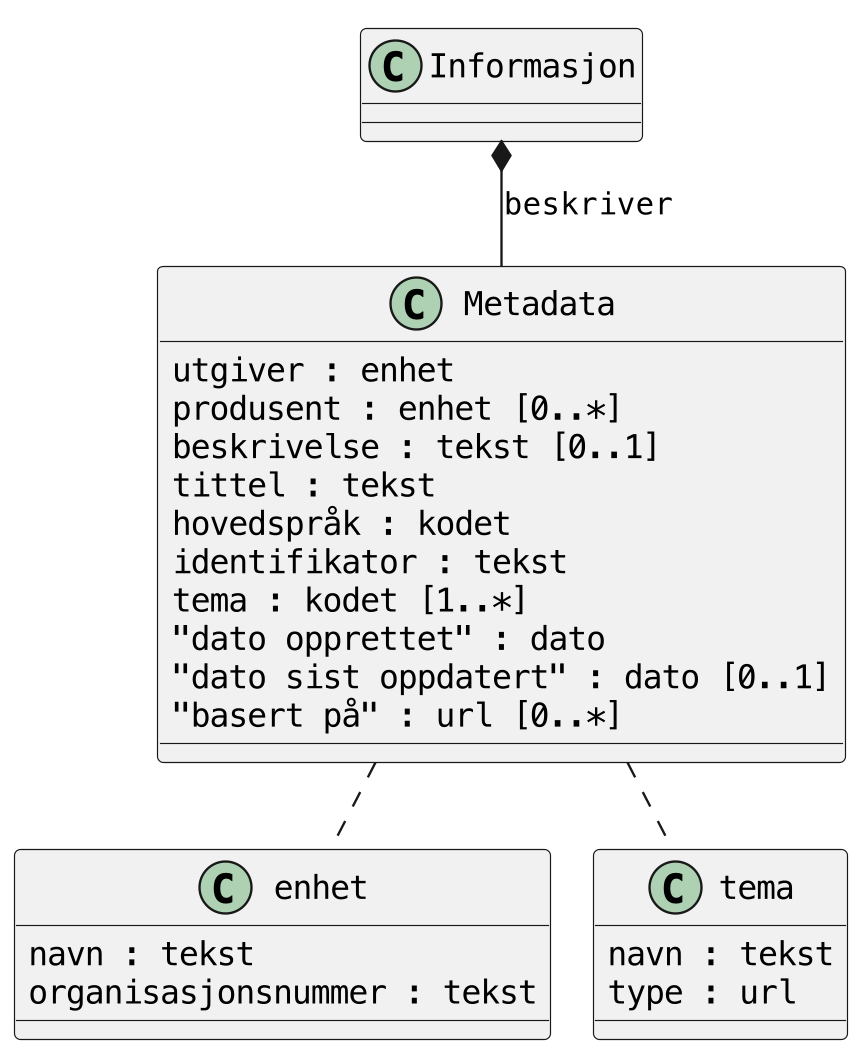
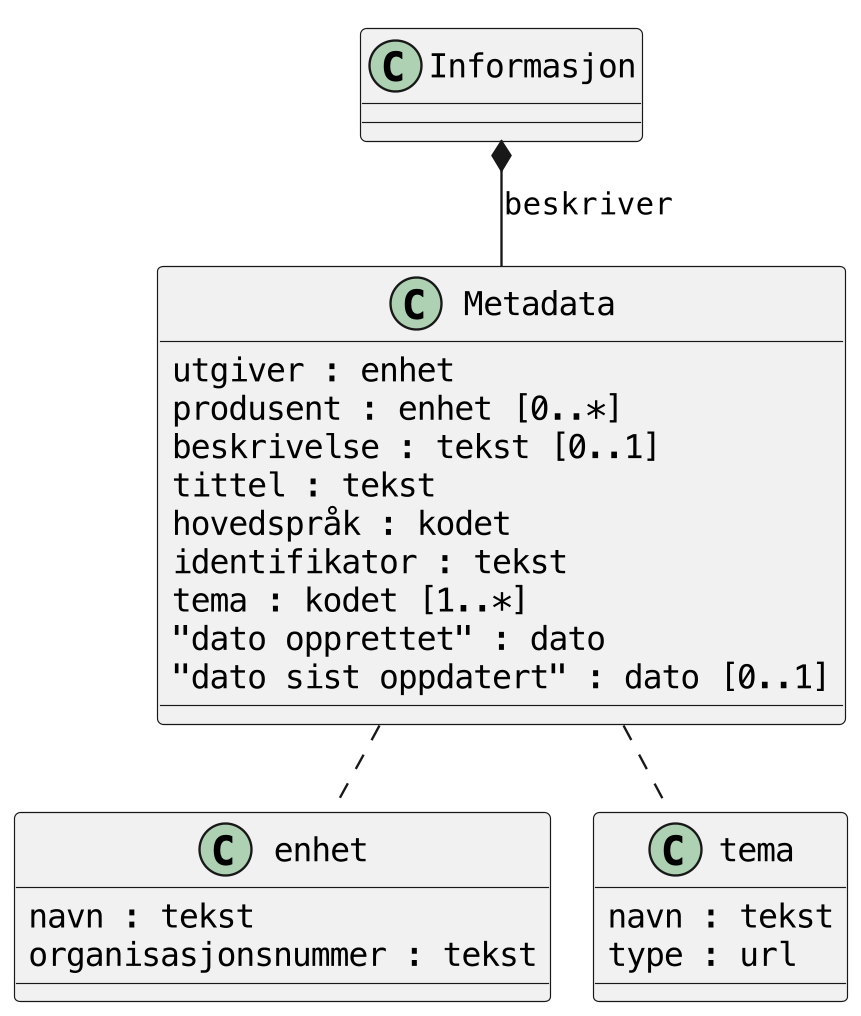
Fjernet "basert på" + tekstlig opprydding

diff --git a/README.md b/README.md
@@ -94,7 +94,6 @@ Dette er et subsett baseret på funn i HIDA og ETI våren 2023. Minimumskrav er 
 | **Tittel** | tekst | Obligatorisk | Artikkelens tittel |
 | **Dato opprettet** | dato | Frivillig | Dato for publisering |
 | **Dato sist oppdatert** | dato | Frivillig | Dato for oppdatering |
-| **Basert på** | URL | Frivillig, flere er mulig | Peker til original(er) hvis dette er et derivat, for eksempel ved automatisk sammenstilling med kunstig intelligens. |
 
 ### Kodeverk/terminologi
 
@@ -129,15 +128,15 @@ Listen er ikke uttømmende.
 
 ### Syntaks/format
 
-Det anbefales å uttrykke metadata på ett eller flere format som kan benyttes med CMS. Det finnes ingen dominerende standard. Mye brukte formater er JSON Linked Data (JSON-LD), RDFa og [Micodata]. Felles for disse er at de benytter vokabular beskrevet på Schema.org, et dugnadsdrevet arbeid med mål om å lage og forvalte [skjemaer] for strukturerte data på internett.
+Det anbefales å uttrykke metadata på ett eller flere format som kan benyttes med CMS. Det finnes ingen dominerende standard. Mye brukte formater er JSON Linked Data (JSON-LD), RDFa og Microdata. 
+
+Under vises det bruk med felt og datatyper basert på henholdsbis [CDV-NO](https://informasjonsforvaltning.github.io/cdvno/) og [Schema.org](https://schema.org/).
 
 Det finnes andre syntaks/format også, som f.eks. [OpenGraph](https://ogp.me). I prinsippet bør man forvalte og vedlikeholde en guide for mapping mot de til enhver mest aktuelle formatene.
 
-#### Kobling til DCAT-AP-NO, schema.org, med mer
+#### Kobling mellom informasjonsmodell og CDV-NO og Schema.org
 
-Schema.org-attributtene er hovedsaklig hentet fra [CreativeWork](https://schema.org/CreativeWork).
-
-| **Metadata-felt** | **DCAT-AP-NO** | *datatype* | **Schema.org** | *datatype* |
+| **Metadata-felt** | **CDV-NO** | *datatype* | **Schema.org** | *datatype* |
 | --- | --- | --- | --- | -- |
 | **Utgiver** | dct:publisher | org:Organization | publisher | Organization (legalName, identifier) |
 | **Produsent** | dct:creator | org:Organization | author | Organization (legalName, identifier) |
@@ -148,7 +147,6 @@ Schema.org-attributtene er hovedsaklig hentet fra [CreativeWork](https://schema.
 | **Tittel** | dct:title | rdf:langString | headline | Text |
 | **Dato opprettet** | dct:issued | xsd:date | datePublished | Date / DateTime |
 | **Dato sist oppdatert** | dct:modified | xsd:date | dateModified | Date / DateTime |
-| **Basert på** | | xsd:anyURI **?** | isBasedOn | URL |
 
 #### Namespace
 
@@ -255,5 +253,3 @@ Namespacet *og* betyr [Open Graph](https://ogp.me/).
 [^5]: [Referansekatalogen for IT-standardar - Digdir](https://www.digdir.no/standarder/referansekatalogen-it-standardar/1480)
 
 [^6]: [Los - felles vokabular for klassifisering av offentlige tjenester og ressurser - Digdir](https://www.digdir.no/informasjonsforvaltning/los-felles-vokabular-klassifisering-av-offentlige-tjenester-og-ressurser/2434)
-
-[^7]: [Information on BCP 47 » RFC Editor (rfc-editor.org)](https://www.rfc-editor.org/info/bcp47)
